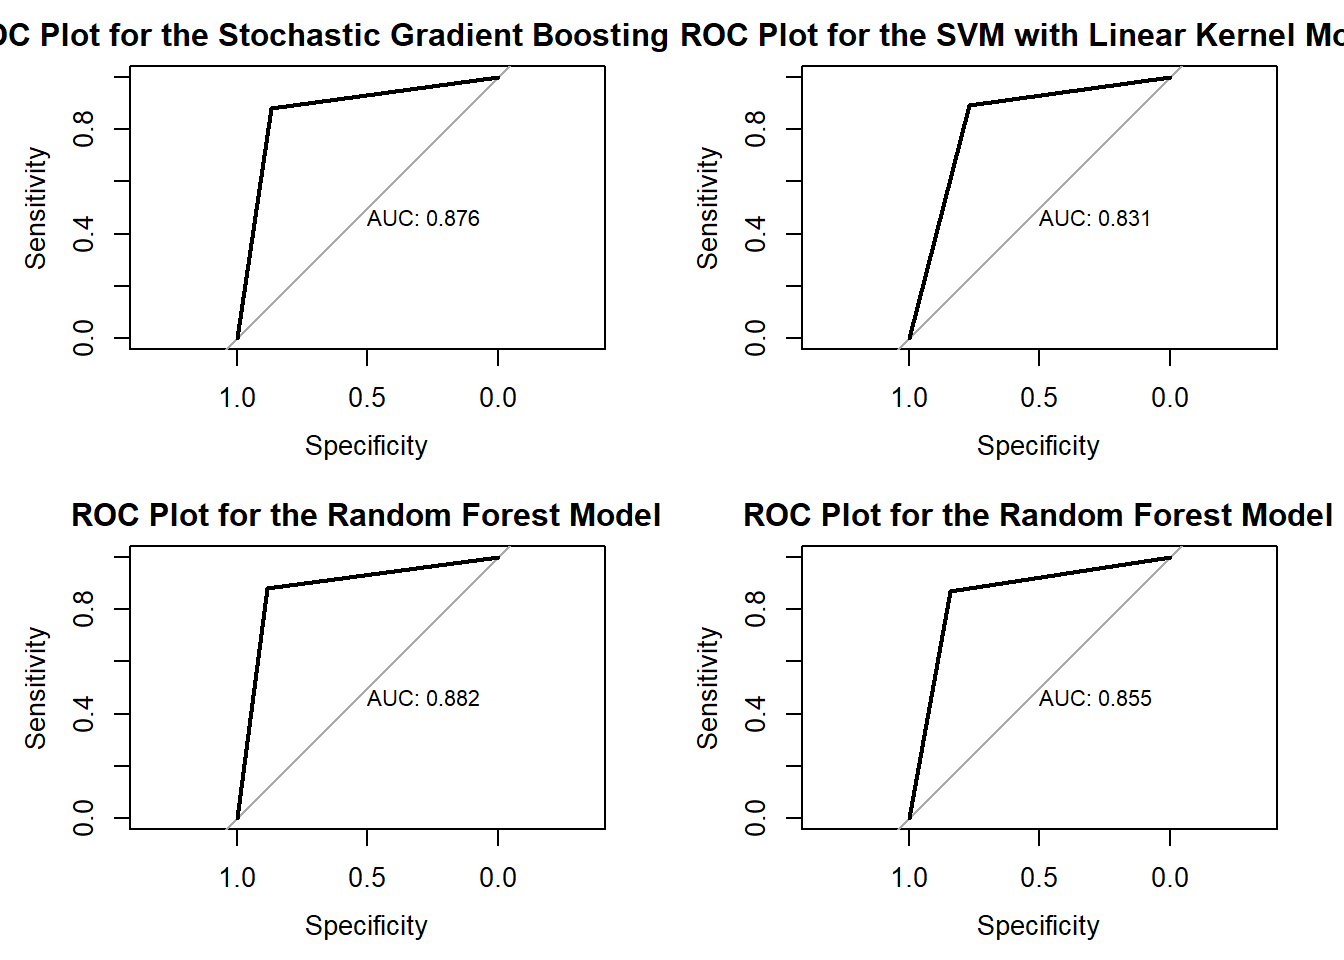
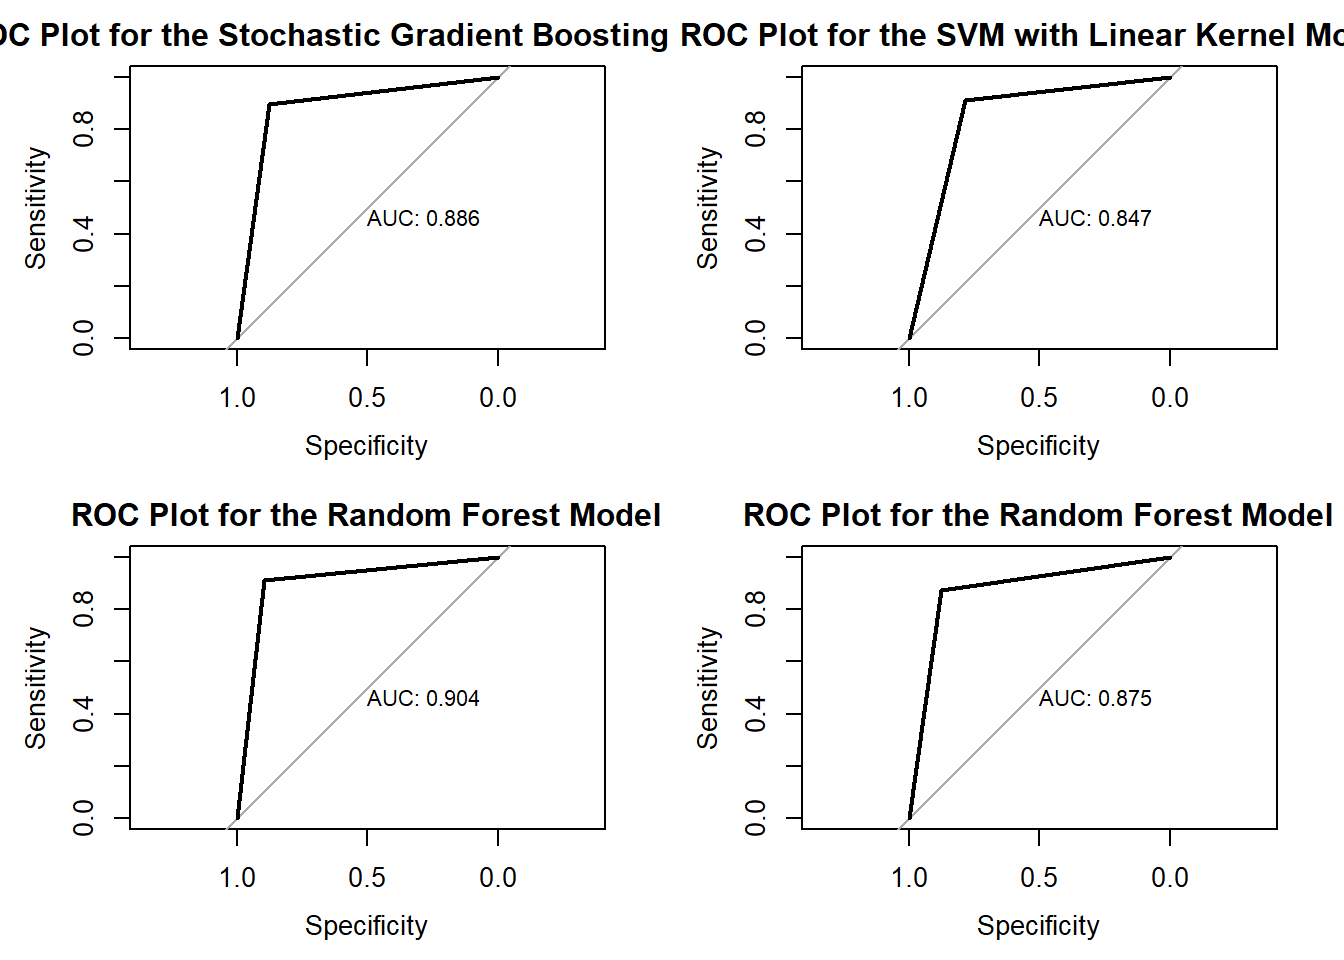
one more time

diff --git a/content/post/2020-03-10-internet-ad-sales-classification.html b/content/post/2020-03-10-internet-ad-sales-classification.html
@@ -295,7 +295,7 @@ Accuracies
 Stochastic Gradient Boosting
 </td>
 <td style="text-align:right;">
-0.8761
+0.8860
 </td>
 </tr>
 <tr>
@@ -303,7 +303,7 @@ Stochastic Gradient Boosting
 SVM with Linear Kernel
 </td>
 <td style="text-align:right;">
-0.8191
+0.8362
 </td>
 </tr>
 <tr>
@@ -311,7 +311,7 @@ SVM with Linear Kernel
 Random Forest
 </td>
 <td style="text-align:right;">
-0.8820
+0.9043
 </td>
 </tr>
 <tr>
@@ -319,7 +319,7 @@ Random Forest
 Neural Network
 </td>
 <td style="text-align:right;">
-0.8545
+0.8748
 </td>
 </tr>
 </tbody>
@@ -345,7 +345,7 @@ Sensitivities
 Stochastic Gradient Boosting
 </td>
 <td style="text-align:right;">
-0.8693
+0.8719
 </td>
 </tr>
 <tr>
@@ -353,7 +353,7 @@ Stochastic Gradient Boosting
 SVM with Linear Kernel
 </td>
 <td style="text-align:right;">
-0.7268
+0.7464
 </td>
 </tr>
 <tr>
@@ -361,7 +361,7 @@ SVM with Linear Kernel
 Random Forest
 </td>
 <td style="text-align:right;">
-0.8863
+0.8954
 </td>
 </tr>
 <tr>
@@ -369,7 +369,7 @@ Random Forest
 Neural Network
 </td>
 <td style="text-align:right;">
-0.8353
+0.8784
 </td>
 </tr>
 </tbody>

diff --git a/public/post/internet-ad-sales-classification/index.html b/public/post/internet-ad-sales-classification/index.html
@@ -430,7 +430,7 @@ Accuracies
 Stochastic Gradient Boosting
 </td>
 <td style="text-align:right;">
-0.8761
+0.8860
 </td>
 </tr>
 <tr>
@@ -438,7 +438,7 @@ Stochastic Gradient Boosting
 SVM with Linear Kernel
 </td>
 <td style="text-align:right;">
-0.8191
+0.8362
 </td>
 </tr>
 <tr>
@@ -446,7 +446,7 @@ SVM with Linear Kernel
 Random Forest
 </td>
 <td style="text-align:right;">
-0.8820
+0.9043
 </td>
 </tr>
 <tr>
@@ -454,7 +454,7 @@ Random Forest
 Neural Network
 </td>
 <td style="text-align:right;">
-0.8545
+0.8748
 </td>
 </tr>
 </tbody>
@@ -480,7 +480,7 @@ Sensitivities
 Stochastic Gradient Boosting
 </td>
 <td style="text-align:right;">
-0.8693
+0.8719
 </td>
 </tr>
 <tr>
@@ -488,7 +488,7 @@ Stochastic Gradient Boosting
 SVM with Linear Kernel
 </td>
 <td style="text-align:right;">
-0.7268
+0.7464
 </td>
 </tr>
 <tr>
@@ -496,7 +496,7 @@ SVM with Linear Kernel
 Random Forest
 </td>
 <td style="text-align:right;">
-0.8863
+0.8954
 </td>
 </tr>
 <tr>
@@ -504,7 +504,7 @@ Random Forest
 Neural Network
 </td>
 <td style="text-align:right;">
-0.8353
+0.8784
 </td>
 </tr>
 </tbody>
